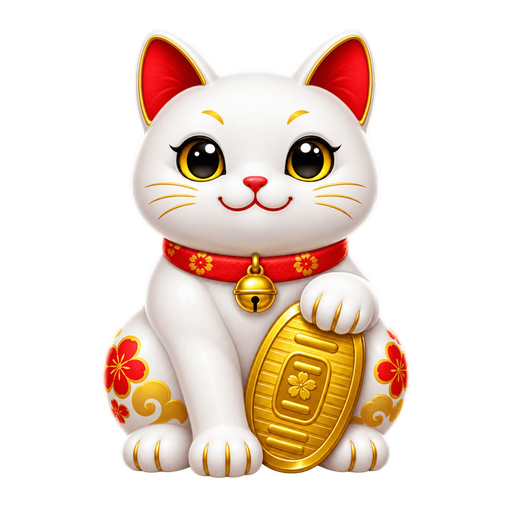
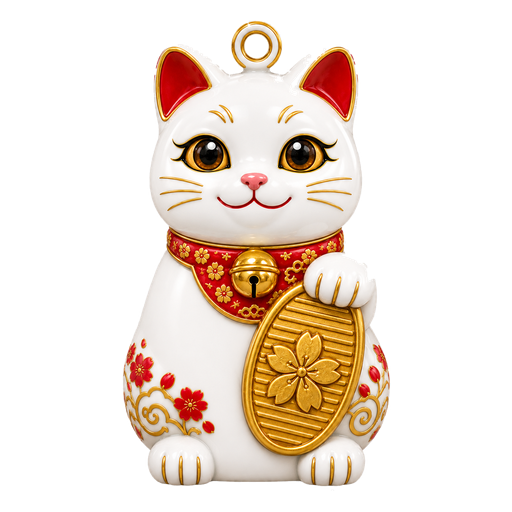
Give the maneki-neko its new art, and its paw back
The new body has the bare shoulder the brief has always asked for, so the paw
can go back — listed AFTER the body this time, drawn in FRONT of it, which is
where a raised paw belongs. The workaround of hiding it behind the cat is gone
along with the reason for it.

Two things about the files needed handling before they would import.

The body arrived with its transparency checkerboard FLATTENED INTO the image —
no alpha channel at all, 0% transparent. import-art keyed the near-white
background it found, which is also what the cat is made of, and produced a ghost
of gold trim and red flowers with no cat behind it. The checkerboard is two
exact greys, #FEFEFE and #F2F2F2 on a 19.5px grid, so it can be matched exactly
instead: strict enough that white porcelain survives it, and flooded from the
border so identical greys inside the cat are not touched. The seams between
squares are anti-aliased and cut every square off from its neighbours, so they
need closing across first.

The gold loop's hole then had to be punched out, the same as the nimbu's brass
ring earlier today: an enclosed hole is by definition unreachable from the
border, so it survives any background removal as solid.

Pivot is the arm's cut end at [0.401, 0.639], which is what sits on the
shoulder — turning it about anything else swings the limb off the cat. Hang
point is the loop's hole at [0.5, 0.076]. Both measured off the imported result.

Changed region(s): [[0.1875, 0.0312, 0.8125, 0.9688]]

diff --git a/charm-list.js b/charm-list.js
@@ -101,31 +101,21 @@ export const CHARMS = [
         story: 'A beckoning cat that invites good fortune in. The raised paw is a ' +
                'come-here, not a wave — the gesture reads backwards to most of the world.',
         ritual: 'Beckon',
-        /* No paw layer, deliberately, until the body art is redrawn.
+        /* The paw is listed AFTER the body, so it is drawn in FRONT of it.
          *
-         * The body was specified to come with a BARE RIGHT SHOULDER so the
-         * separate paw could sit on it — see CHARM-PROMPTS.md, which says so in
-         * bold. It came back as a complete cat with both forelegs: one down the
-         * chest on the left, one resting on the koban on the right. Adding a
-         * raised paw to that gives the cat three front legs, which is what it
-         * did, and no amount of placing or layering can fix it:
+         * That is only safe because this body finally has the bare shoulder the
+         * brief asked for. The previous one had both forelegs, so any raised
+         * paw made three; behind the body it hid the join but passed behind the
+         * head, which is not where a raised paw goes.
          *
-         *   paw over the body  — the severed end shows as a pink oval in mid-air
-         *   paw behind it      — the arm passes behind the head, so it reads as
-         *                        a hand floating by the face and would slide
-         *                        under it as it moved
-         *
-         * So the cat is shown as it was actually drawn, which is a perfectly
-         * good maneki-neko, and the beckon rocks the whole charm instead. Put
-         * this line back the moment the body has a bare shoulder:
-         *
-         *   {key: 'paw', file: 'neko-paw.svg', pivot: [0.54, 0.59]},
-         *
-         * and list it AFTER the body so the paw sits in front of the face. */
+         * The pivot is the arm's cut end, which sits on the shoulder — turning
+         * it about anything else swings the whole limb off the cat. */
         parts: [
             {key: 'body', file: 'neko-body.svg'},
+            {key: 'paw', file: 'neko-paw.svg', pivot: [0.401, 0.639]},
         ],
-        hangPivot: [0.5, 0.1],
+        // Centre of the gold loop's hole, measured off the art.
+        hangPivot: [0.5, 0.076],
         cord: {rope: '#8e1420'},
     },
     {
